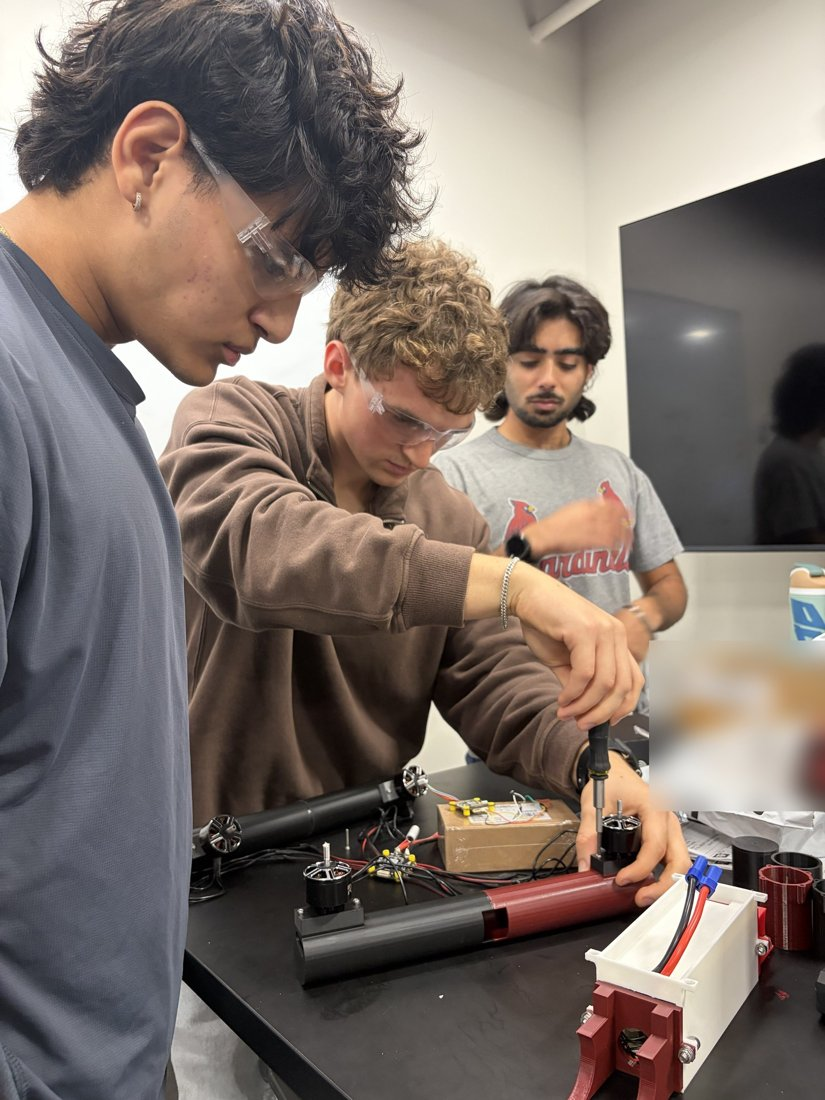
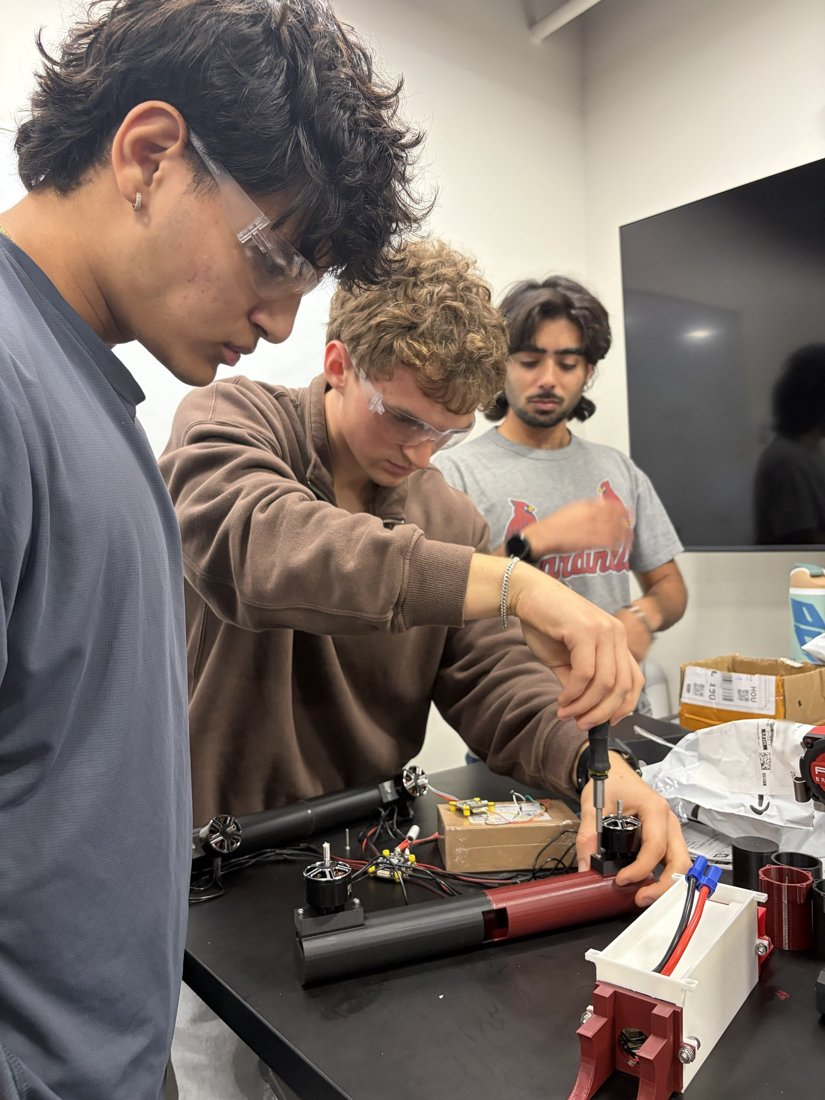
PBE line figure as the Leadership cover; graph-paper hero; new team photo
The PBE mark is built as a standing sign in the Hairline style, the B in
maroon, with the grill-out photo on hover. The hero sits on faded graph
paper that scrolls at 40% speed and wanders at random.

Changed region(s): [[0.7879, 0.5564, 1.0, 0.7418]]

diff --git a/hairline/pbe.js b/hairline/pbe.js
@@ -1,0 +1,181 @@
+/**
+ * PBE: the chapter's mark, standing as a sign on a plinth. Each letter is a
+ * solid block with its ruled stripes, as in the logo; the B's upper lobe is cut
+ * on the diagonal. The stripes sit shallower than the blocks. The letter under
+ * the pointer pushes its stripes out flush, so the letter closes up. The
+ * read-out names the word. The slider is how far the stripes come out.
+ *
+ * The pattern: discrete items. Every piece is convex (prism draws a hull), so
+ * the letters are built from blocks and bands, each a rounded polygon drawn in
+ * the sign's plane (world x and z) and extruded towards the viewer along y.
+ */
+const { Cam, fit, facing, poly, prism, proj, rings, tset, tval, tween, tdone, disposer, mk, pointer, put, register, solid } = HL;
+
+const K = 0.3, X0 = 120, Y0 = 185, TOP = 7, LOW = 3.5, STEP = 55;
+// logo pixels (y down) to the sign's plane: world x, and height z
+const W = (x, y) => [(x - X0) * K, (Y0 - y) * K];
+const WORDS = ["Professional", "Brotherhood", "Engineers"];
+// The B is the logo's one coloured letter, so it carries the bright edge at rest.
+const MARK = 1;
+
+/** A convex polygon (logo pixels) with a radius per corner, as {ring, inner(b)}: samples {u, v, nu, nv}. */
+function shape(pts, radii, n = 5) {
+  const p = pts.map(([x, y]) => W(x, y)), m = p.length;
+  const cx = p.reduce((s, q) => s + q[0], 0) / m, cy = p.reduce((s, q) => s + q[1], 0) / m;
+  const norm = (a, b) => {
+    let nx = b[1] - a[1], ny = a[0] - b[0];
+    const l = Math.hypot(nx, ny);
+    nx /= l; ny /= l;
+    if (nx * ((a[0] + b[0]) / 2 - cx) + ny * ((a[1] + b[1]) / 2 - cy) < 0) { nx = -nx; ny = -ny; }
+    return [nx, ny];
+  };
+  const corners = p.map((v, i) => {
+    const n1 = norm(p[(i + m - 1) % m], v), n2 = norm(v, p[(i + 1) % m]);
+    const r = Math.max((Array.isArray(radii) ? radii[i] : radii) * K, 0.2);
+    let bx = n1[0] + n2[0], by = n1[1] + n2[1];
+    const bl = Math.hypot(bx, by); bx /= bl; by /= bl;
+    const half = Math.acos(Math.max(-1, Math.min(1, n1[0] * n2[0] + n1[1] * n2[1]))) / 2;
+    const d = r / Math.cos(half);
+    const a1 = Math.atan2(n1[1], n1[0]);
+    let da = Math.atan2(n2[1], n2[0]) - a1;
+    while (da > Math.PI) da -= 2 * Math.PI;
+    while (da < -Math.PI) da += 2 * Math.PI;
+    return { c: [v[0] - bx * d, v[1] - by * d], r, a1, da };
+  });
+  const at = (inset) => {
+    const out = [];
+    for (const k of corners) for (let s = 0; s <= n; s++) {
+      const a = k.a1 + k.da * s / n, ca = Math.cos(a), sa = Math.sin(a), rr = Math.max(0.3, k.r - inset);
+      out.push({ u: k.c[0] + rr * ca, v: k.c[1] + rr * sa, nu: ca, nv: sa });
+    }
+    return out;
+  };
+  return { ring: at(0), inner: (b) => at(b) };
+}
+
+/** Keeps the part of a convex polygon where dot(m, p) lies in [s0, s1]. */
+function band(pts, m, s0, s1) {
+  const clip = (poly, keep) => {
+    const out = [];
+    poly.forEach((a, i) => {
+      const b = poly[(i + 1) % poly.length], fa = keep(a), fb = keep(b);
+      if (fa >= 0) out.push(a);
+      if ((fa >= 0) !== (fb >= 0)) { const t = fa / (fa - fb); out.push([a[0] + (b[0] - a[0]) * t, a[1] + (b[1] - a[1]) * t]); }
+    });
+    return out;
+  };
+  const dot = (q) => m[0] * q[0] + m[1] * q[1];
+  return clip(clip(pts, (q) => dot(q) - s0), (q) => s1 - dot(q));
+}
+
+const stripes = (x0, x1, ys, h) => ys.map((y) => ({ pts: [[x0, y], [x1, y], [x1, y + h], [x0, y + h]], r: 2, stripe: true }));
+
+function letters() {
+  const P = [
+    { pts: [[125, 5], [295, 5], [295, 96], [125, 96]], r: [1, 50, 50, 1] },
+    ...stripes(125, 213, [103, 122, 140, 158, 176], 8),
+  ];
+  // The B: diagonal stripes in its upper left, ending on a vertical at x 390; solid to the right
+  // and below. The solid is three blocks set flush, their seams covered (see mount).
+  const D = 0.46, XS = 390, quad = (y0, y1) => [[300, y0], [XS, y0 + (XS - 300) * D], [XS, y1 + (XS - 300) * D], [300, y1]];
+  const lines = [10, 28.5, 47.5, 66.5, 85], LW = 5;
+  const B = [{ pts: [[300, 7], [XS, 7], [XS, lines[0] + (XS - 300) * D], [300, lines[0]]], r: [1, 1, 1, 0.6], stripe: true }];
+  for (let k = 0; k < lines.length - 1; k++) B.push({ pts: quad(lines[k] + LW, lines[k + 1]), r: 1, stripe: true });
+  B.push(
+    { pts: [[XS, 7], [470, 7], [470, 97], [XS, 97]], r: [1, 46, 32, 1] },
+    { pts: [[XS, 97], [470, 97], [470, 185], [XS, 185]], r: [1, 32, 50, 1], seams: [[XS + 1, 97, 470 - 32, 97]] },
+    { pts: quad(lines[4] + LW, 185 - (XS - 300) * D).map(([x, y], i) => [x, i > 1 ? 185 : y]), r: 1, seams: [[XS, 131, XS, 184]] },
+  );
+  // The E: a head with a slot cut into its right side, then the stripes. Three flush blocks.
+  const E = [
+    { pts: [[478, 7], [649, 7], [649, 56], [478, 56]], r: 1 },
+    { pts: [[478, 56], [567, 56], [567, 100], [478, 100]], r: 1, seams: [[479, 56, 566, 56]] },
+    { pts: [[567, 62], [622, 62], [622, 100], [567, 100]], r: 1, seams: [[567, 63, 567, 99]] },
+    ...stripes(478, 657, [104, 122, 140, 158, 176], 8),
+  ];
+  return [P, B, E];
+}
+
+function mount({ stage, svg, read }, value) {
+  const bag = disposer();
+  let rise = value, act = -1;
+  const C = Cam(36, 0.4, 1.62);
+  const [x0] = W(108, 0), [x1] = W(667, 0), zt = W(0, 5)[1];
+  fit(C, [[x0, -4, -3], [x1, TOP + 8, -3], [x1, -4, zt], [x0, TOP + 8, zt], [x0, -4, zt]], 200, 160);
+  const P = proj(C), front = facing(C);
+  // the sign's plane: a ring's (u, v) is world (x, z), and a prism's height runs along world y
+  const S = (u, v, w) => P(u, w, v);
+  const zf = Math.sqrt(1 - C.k * C.k), cam = [Math.sin(C.az), Math.cos(C.az), C.k / zf];
+  const faceS = (q) => q.nu * cam[0] + q.nv * cam[2] > 0;
+  const g = mk("g", {}, svg);
+
+  const [po, pi] = rings(x0, -4, x1, TOP + 8, 3, 1.4);
+  put(solid(g), prism(P, front, po, pi, -3, 0));
+
+  const pieces = [];
+  letters().forEach((parts, L) => parts.forEach((part) => {
+    const s = shape(part.pts, part.r);
+    const c = s.ring.reduce((a, q) => [a[0] + q.u / s.ring.length, a[1] + q.v / s.ring.length], [0, 0]);
+    const h = part.stripe ? LOW : TOP;
+    pieces.push({ L, stripe: part.stripe, seams: part.seams, ring: s.ring, inner: s.inner(0.9), key: cam[0] * c[0] + cam[1] * h + cam[2] * c[1], t: tween(h), drawn: NaN });
+  }));
+  // farther from the camera first, so nearer pieces cover them
+  pieces.sort((a, b) => a.key - b.key);
+  pieces.forEach((q) => { q.el = solid(g); if (q.L === MARK) q.el.sil.classList.add("hi"); });
+  // Fill-only patches over the seams between flush blocks on a letter's face, each laid just after
+  // the later of the two blocks, so the seam line disappears and the solid reads as one piece.
+  for (const q of pieces.filter((p) => p.seams)) for (const [xa, ya, xb, yb] of q.seams) {
+    const [ua, va] = W(xa, ya), [ub, vb] = W(xb, yb), e = 0.6, hz = va === vb;
+    const d = poly(hz
+      ? [S(ua, va - e, TOP), S(ub, va - e, TOP), S(ub, va + e, TOP), S(ua, va + e, TOP)]
+      : [S(ua - e, va, TOP), S(ua + e, va, TOP), S(ua + e, vb, TOP), S(ua - e, vb, TOP)]);
+    const patch = mk("path", { class: "fo", d }, g);
+    const later = pieces.filter((p) => p.L === q.L && !p.stripe).map((p) => p.el.g).pop();
+    g.insertBefore(patch, later.nextSibling);
+  }
+
+  const B = register(stage, (_dt, now) => {
+    let moving = false;
+    for (const q of pieces) {
+      const h = tval(q.t, now);
+      if (h !== q.drawn) { q.drawn = h; put(q.el, prism(S, faceS, q.ring, q.inner, 0, h)); }
+      if (!tdone(q.t, now)) moving = true;
+    }
+    return moving;
+  });
+  bag.add(B.unregister);
+
+  // letter columns at rest, in screen x along the plinth's front edge: P 125–295, B 300–470, E 478–655
+  const mid = W(0, 95)[1];
+  const cols = [[115, 297], [297, 474], [474, 665]].map(([a, b]) => [S(W(a, 0)[0], mid, TOP)[0], S(W(b, 0)[0], mid, TOP)[0]]);
+  const ys = [[x0, -4, -3], [x1, -4, -3], [x0, TOP + 8, -3], [x1, TOP + 8, -3], [x0, 0, zt], [x1, 0, zt]].map(([x, y, z]) => P(x, y, z)[1]);
+  const yTop = Math.min(...ys) - 10, yBot = Math.max(...ys) + 10;
+  function hit([sx, sy]) {
+    if (sy < yTop || sy > yBot) return -1;
+    return cols.findIndex(([a, b]) => sx >= a && sx < b);
+  }
+  function choose(a) {
+    if (a === act) return;
+    act = a;
+    const now = performance.now();
+    for (const q of pieces) {
+      if (q.stripe) tset(q.t, q.L === a ? LOW + rise : LOW, now, q.L === a ? 0 : STEP);
+      q.el.sil.classList.toggle("hi", a < 0 ? q.L === MARK : q.L === a);
+    }
+    read.textContent = a < 0 ? "rest" : WORDS[a];
+    B.wake();
+  }
+  bag.add(pointer(stage, { move: (p) => choose(hit(p)), leave: () => choose(-1) }));
+  bag.add(() => svg.replaceChildren());
+  B.wake();
+  return { set: (v) => { rise = v; if (act >= 0) { const a = act; act = -1; choose(a); } }, destroy: bag.dispose };
+}
+
+hairline({
+  name: "pbe",
+  means: "The PBE mark standing as a sign. Point at a letter and its stripes come out flush, closing the letter up.",
+  rules: [1, 4, 5, 9],
+  range: [1.5, 3.5, 5],
+  tour: [[120, 140], [200, 165], [275, 185], null],
+  mount,
+});

diff --git a/src/styles/global.css b/src/styles/global.css
@@ -80,7 +80,19 @@ a:hover > .go span, a:hover > * > .go span, a.go:hover span { transform: transla
 .photo.contain { background: #fff; }
 .photo.contain img { object-fit: contain; }
 
-/* Home: hero */
+/* Home: hero, on graph paper set back behind the page: its lines are the figures' line colours, faded,
+   it scrolls at under half speed (--gy) and wanders at random (--wx, --wy), both set in index.astro. */
+.hero-band { position: relative; overflow: hidden; isolation: isolate; background: #f2f0ed; }
+.hero-band::before { content: ""; position: absolute; inset: -220px -200px; z-index: -1; pointer-events: none;
+  background-image:
+    linear-gradient(#bdb7b0 1px, transparent 1px), linear-gradient(90deg, #bdb7b0 1px, transparent 1px),
+    linear-gradient(#dcd7d1 1px, transparent 1px), linear-gradient(90deg, #dcd7d1 1px, transparent 1px);
+  background-size: 60px 60px, 60px 60px, 12px 12px, 12px 12px;
+  opacity: 0.55;
+  -webkit-mask-image: radial-gradient(ellipse 75% 85% at 50% 45%, #000 35%, transparent 100%);
+          mask-image: radial-gradient(ellipse 75% 85% at 50% 45%, #000 35%, transparent 100%);
+  translate: var(--wx, 0px) calc(var(--wy, 0px) + var(--gy, 0px)); }
+@media (prefers-reduced-motion: reduce) { .hero-band::before { translate: none; } }
 .hero { display: grid; grid-template-columns: minmax(0, 1fr) minmax(0, 340px); gap: 32px clamp(32px, 6vw, 88px); align-items: center; padding-block: clamp(32px, 7vh, 72px); }
 .hero .lede { margin-top: 24px; }
 .carousel .slides { position: relative; aspect-ratio: 4 / 5; }
@@ -140,8 +152,9 @@ a:hover > .go span, a:hover > * > .go span, a.go:hover span { transform: transla
 .plate-photo .photo { height: 100%; }
 /* The rover's CAD render is mirrored so it faces the same way as its drawing. */
 .card-lead .plate-photo img { transform: scaleX(-1); }
-.card:hover .plate .fig { transform: translateY(-4px); }
-@media (hover: hover) { .card:hover .plate-photo { opacity: 1; } }
+.plate-link { display: block; }
+:is(.card, .plate-link):hover .plate .fig { transform: translateY(-4px); }
+@media (hover: hover) { :is(.card, .plate-link):hover .plate-photo { opacity: 1; } }
 /* On touch screens there is no hover: the photo shows while the card sits in the middle of the screen. */
 @media (hover: none) { .plate.reveal .plate-photo { opacity: 1; } }
 .card-lead .plate { aspect-ratio: 16 / 10; border-bottom: 0; border-right: 1px solid #e2ded9; }
